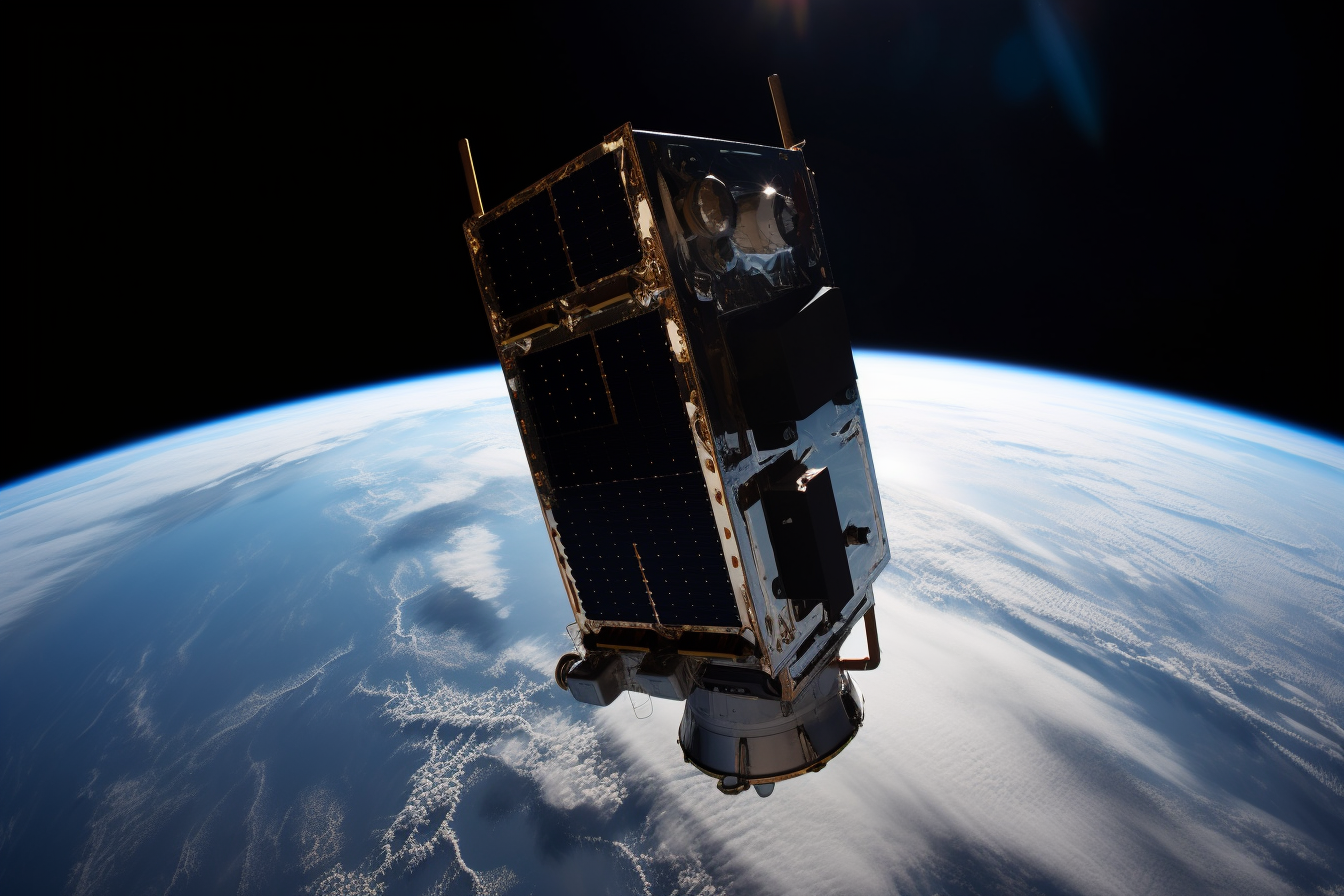
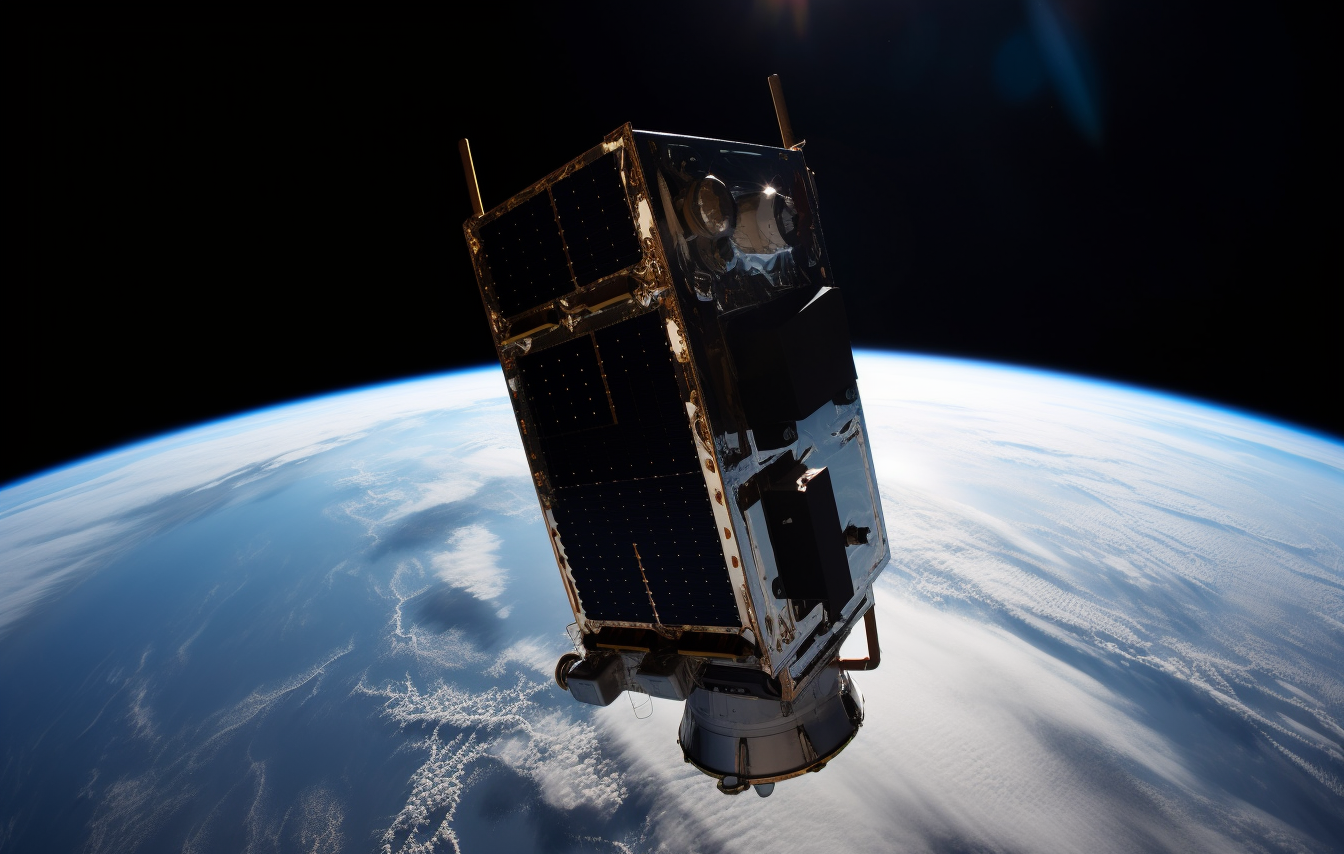
add more fulls

diff --git a/index.html b/index.html
@@ -86,7 +86,7 @@
 								<p>Developed major logistics assessment and scheduling tools for the execution of a FPSO vessel refurbishment project, reducing project delays by over a month.</p>
 							</article>
 							<article class="col-6 col-12-xsmall work-item">
-								<a href="images/thumbs/autochem.png" class="image fit thumb"><img src="images/thumbs/autochem.png" alt="" /></a>
+								<a href="images/fulls/autochem.png" class="image fit thumb"><img src="images/thumbs/autochem.png" alt="" /></a>
 								<h3>Automotive Chemical Manufacturing Operations</h3>
 								<p>
 									Led a team to improve the operational efficiency on two manufacturing lines by identifying and implementing focused improvements and standard operating procedures.	
@@ -112,7 +112,7 @@
 								<p>Full stack design and development of an AI-assisted academic learning web platform pilot project. Designed using React (JavaScript) Kubernetes, Docker, IBM-Watson and python NPL libraries.								</p>
 							</article>
 							<article class="col-6 col-12-xsmall work-item">
-								<a href="images/fulls/06.jpg" class="image fit thumb"><img src="images/thumbs/06.jpg" alt="" /></a>
+								<a href="images/fulls/art.gif" class="image fit thumb"><img src="images/thumbs/06.jpg" alt="" /></a>
 								<h3>Abstract Painting</h3>
 								<p>Creating spontaneous and unpredictable pieces with acrylics, latex, canvas and gravity. 
 									<strong>	<a href="https://www.instagram.com/paintsepii/">Instagram</a>
